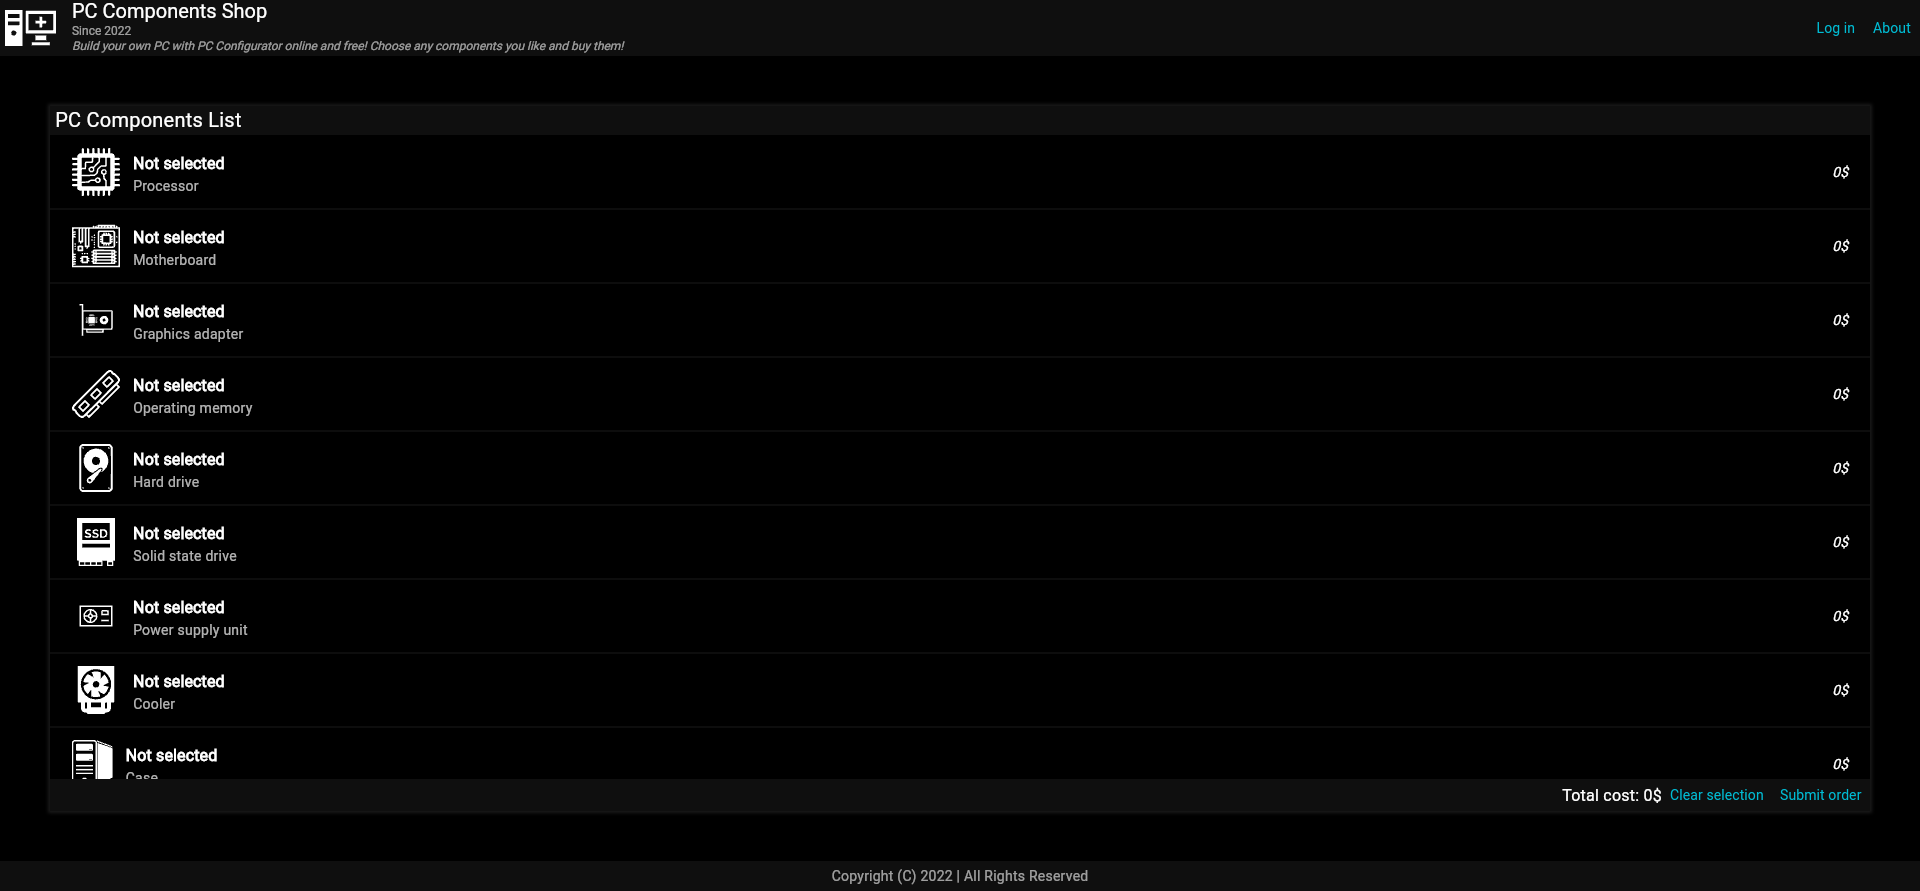
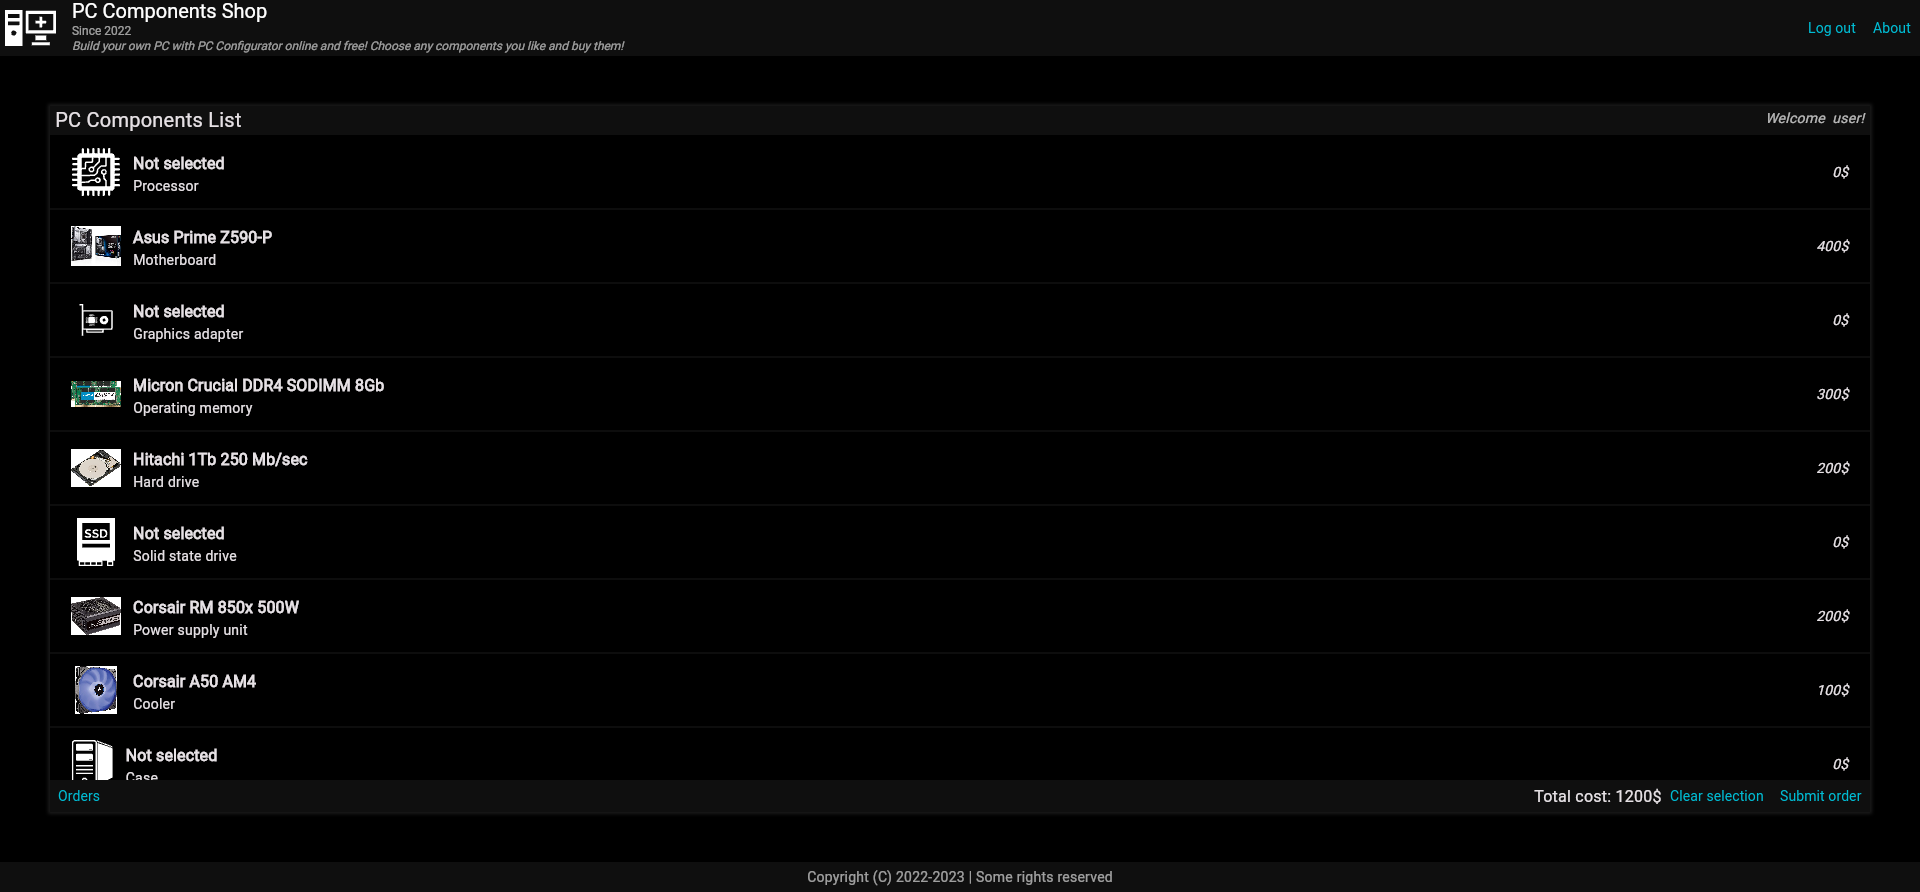
Major update

diff --git a/Readme.md b/Readme.md
@@ -28,12 +28,14 @@ it's basically used for creating UI.
 - Database administration
 - Logging in, out and registration
 - User sessions via encrypted cookies
+- Order history tracking
+- Server files viewing, uploading and deleting
 
 ## Screenshots
 
-![Main page without selections](screenshots/a.png "Main page without selections")
+![Main page with selections](screenshots/a.png "Main page with selections")
 ![Login page](screenshots/b.png "Login page")
-![Main page with selections](screenshots/c.png "Main page with selections")
+![Order history dialog](screenshots/c.png "Order history dialog")
 ![Submit order](screenshots/d.png "Submit order")
 ![Selection page](screenshots/e.png "Selection page")
 ![Search component](screenshots/f.png "Search component")
@@ -47,6 +49,9 @@ it's basically used for creating UI.
 ![Users DB table administration](screenshots/n.png "Users DB table administration")
 ![Sessions DB table administration](screenshots/o.png "Sessions DB table administration")
 ![The whole dart code translated into JavaScript with optimization, hardening and obfuscation](screenshots/p.png "The whole dart code translated into JavaScript with optimization, hardening and obfuscation")
+![Viewing files which are currently exist in the certain folder on the server](screenshots/q.png "Viewing files which are currently exist in the certain folder on the server")
+![File upload form](screenshots/r.png "File upload form")
+![File uploading](screenshots/s.png "File uploading")
 
 ## Build
 
